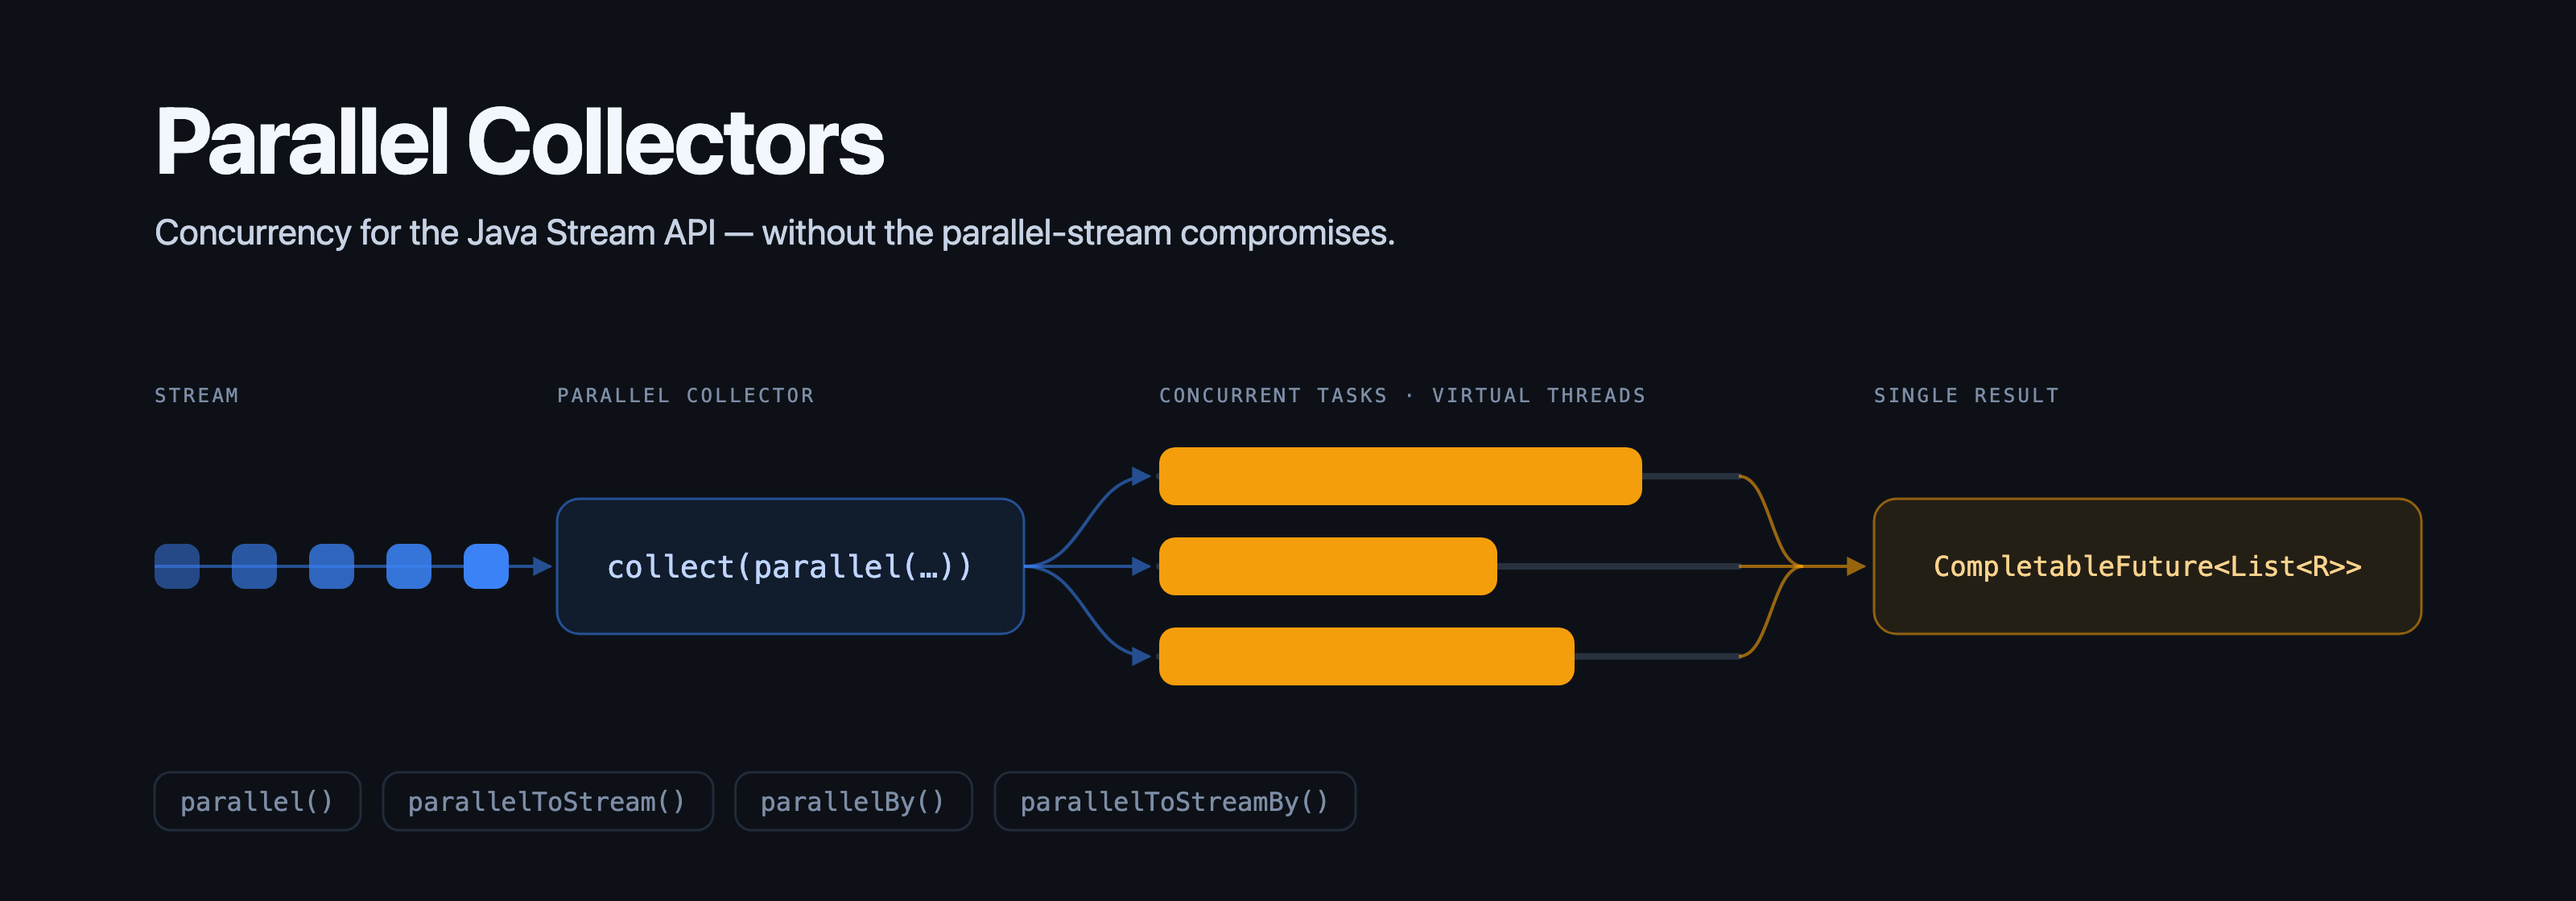
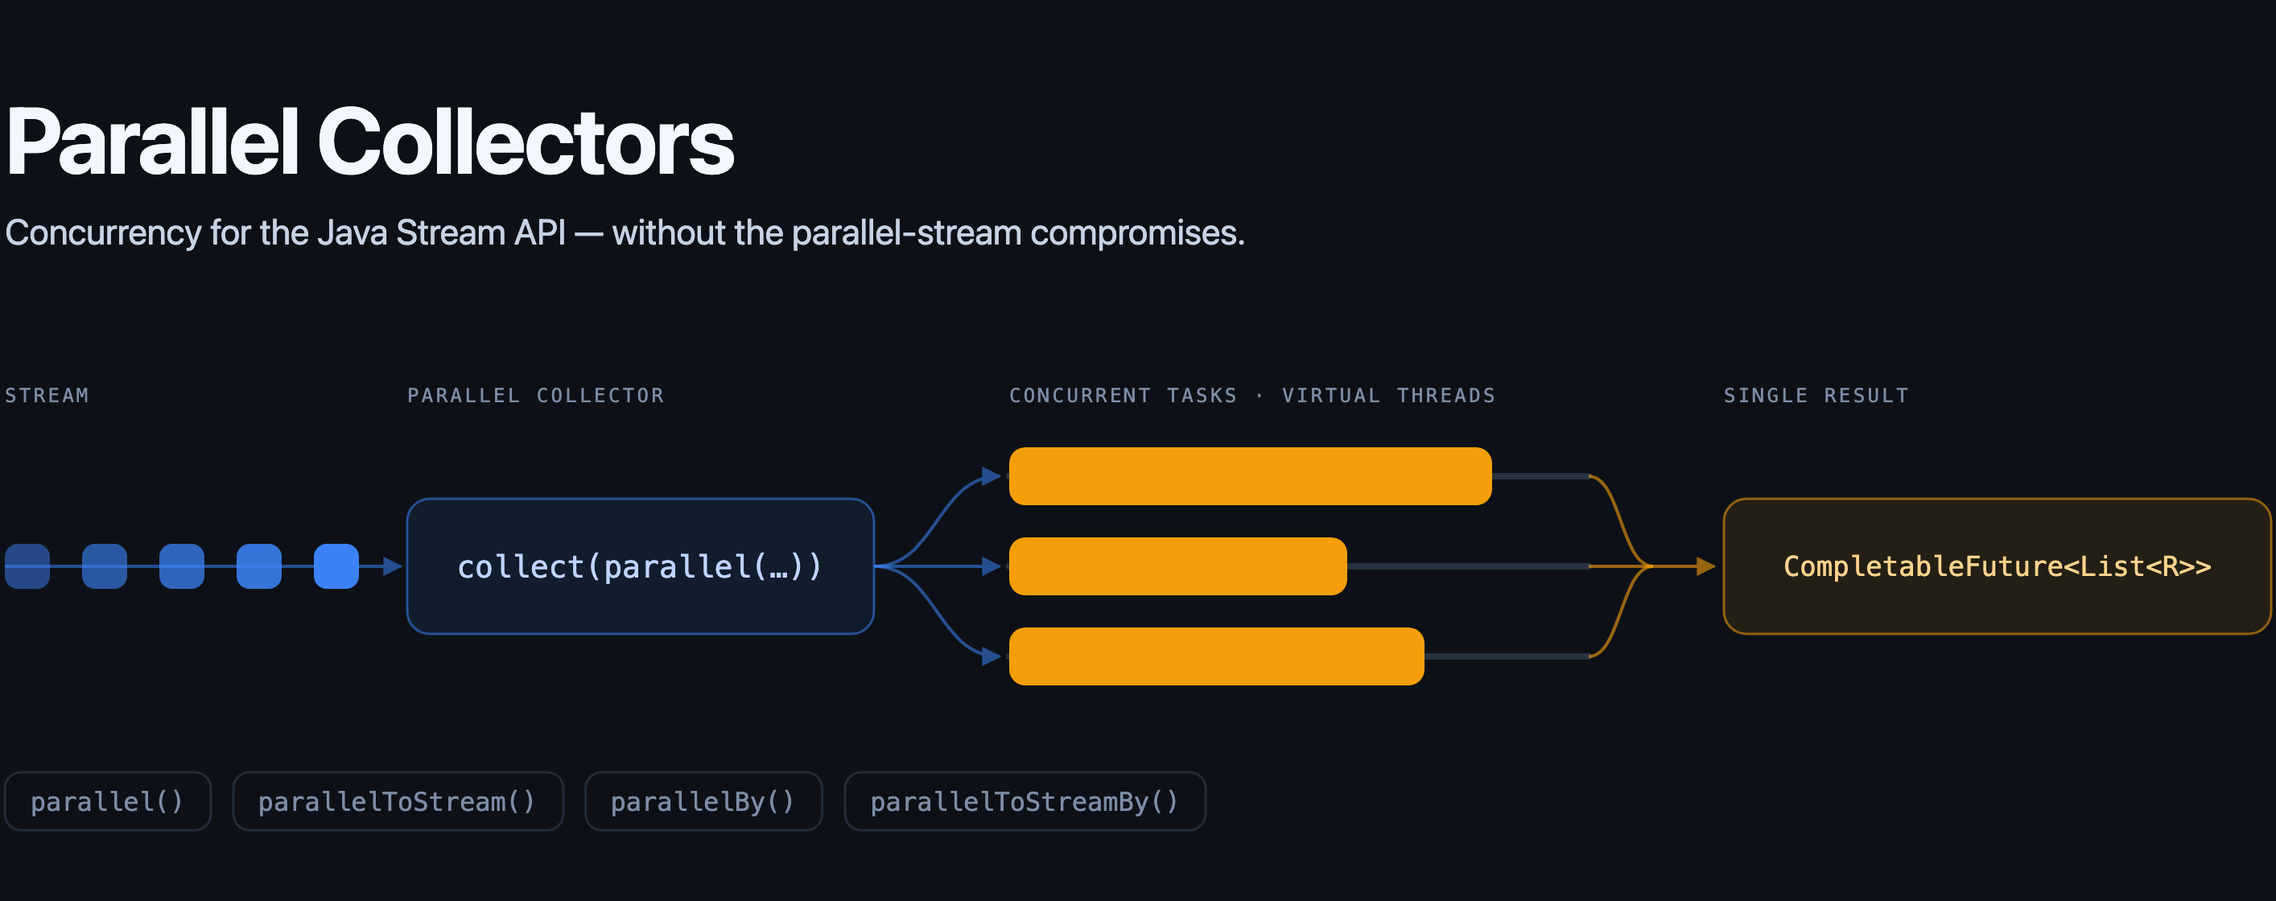
fix readme images margins (#1303)

diff --git a/docs/pc-banner.py b/docs/pc-banner.py
@@ -1,8 +1,9 @@
 #!/usr/bin/env python3
 """Generate the Parallel Collectors README banner (dark + light) as SVG."""
 
-W, H = 1600, 560
-M = 96                      # side margin
+M = 96                      # layout gutter — cropped off the final canvas, see build()
+BLEED = 3                   # ...all but this, so the end shapes' 1.5px strokes stay inside
+W, H = 1600 - 2 * (M - BLEED), 560   # content runs edge to edge, aligning with the README text
 CY = 352                    # diagram centre line
 LANE_DY = 56                # lane spacing
 LABEL_Y = 250
@@ -87,6 +88,9 @@ def build(t):
             f'markerHeight="6" orient="auto"><path d="M0 0 L10 5 L0 10 z" fill="{col}"/></marker>')
     add('</defs>')
     add(f'<rect width="{W}" height="{H}" fill="{c["bg"]}"/>')
+    # everything below is laid out on a 1600-wide grid, then shifted so the gutter falls
+    # outside the canvas — no dead band on either side
+    add(f'<g transform="translate({-(M - BLEED)} 0)">')
 
     # --- masthead ---
     add(f'<text x="{M}" y="108" font-size="58" font-weight="700" letter-spacing="-1.4" '
@@ -152,6 +156,7 @@ def build(t):
             f'font-family="{MONO}" font-size="{CHIP_FS}" fill="{c["muted"]}">{s}</text>')
         x += w + CHIP_GAP
 
+    add('</g>')
     add('</svg>')
     return "\n".join(o)
 
